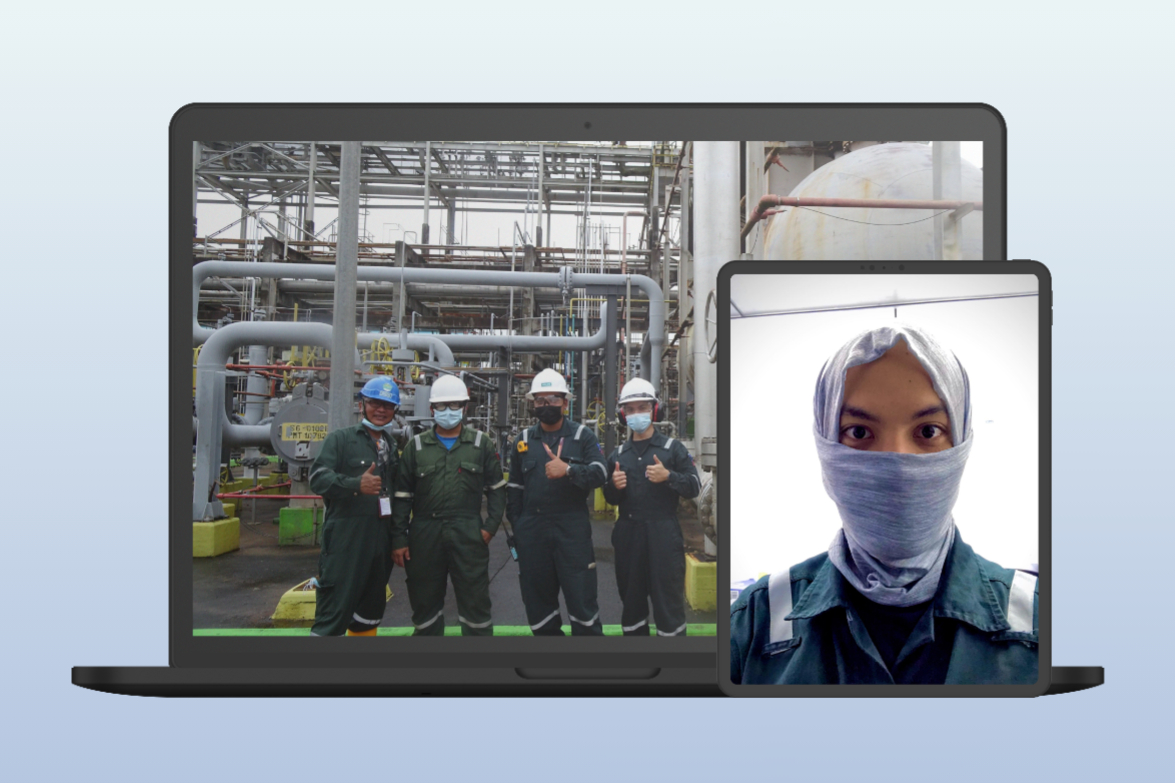
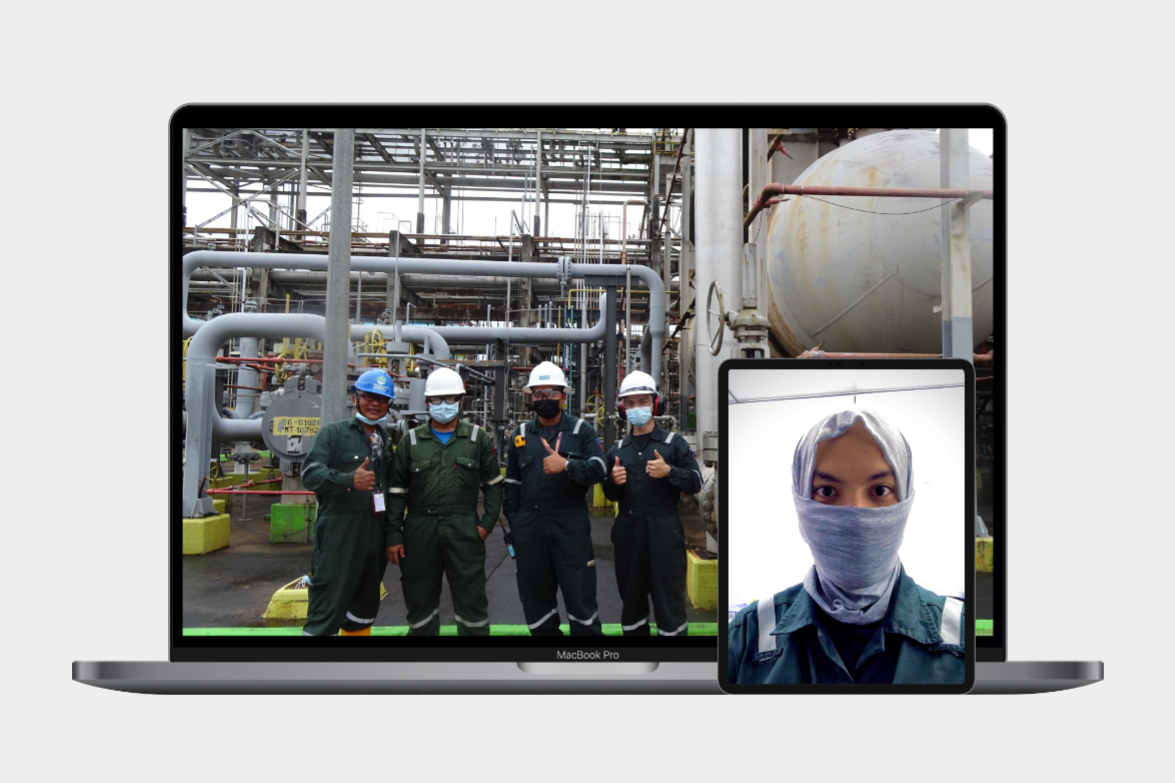
update about section to be uniform

diff --git a/styles.css b/styles.css
@@ -50,6 +50,7 @@ body {
   gap: 2rem;
   font-size: 2rem;
   position: relative;
+  text-align: center;
 
   background: linear-gradient(-45deg, #ee7752, #e73c7e, #23a6d5, #23d5ab);
   background-size: 400% 400%;
@@ -328,8 +329,9 @@ body {
   width: 100vw;
   position: relative;
   overflow: hidden;
-  background-color: var(--secondary-color);
-  max-width: 1400px;
+  /* background-color: var(--secondary-color); */
+  background-color: #EEEEEE;
+  /* max-width: 1200px; */
   margin: 0 auto;
 }
 .abt-title {
@@ -344,7 +346,8 @@ body {
   display: flex;
   flex-direction: row;
   transition: all 1s ease-in-out;
-  background-color: var(--secondary-color);
+  /* background-color: var(--secondary-color); */
+  background-color: #EEEEEE;
   overflow: hidden;
 }
 .btn-slider {
@@ -401,13 +404,15 @@ body {
   font-size: 12px;
 }
 .blankDiv {
-  width: 40%;
+  width: 25%;
   height: 100%;
   display: block;
+  background-color: #EEEEEE;
   /* background-image: linear-gradient(15deg, #13547a 0%, #80d0c7 100%); */
 }
 .sliderImg {
   width: 100%;
+  max-width: 1000px;
   background-size: cover;
   background-position: center;
   background-repeat: no-repeat;
